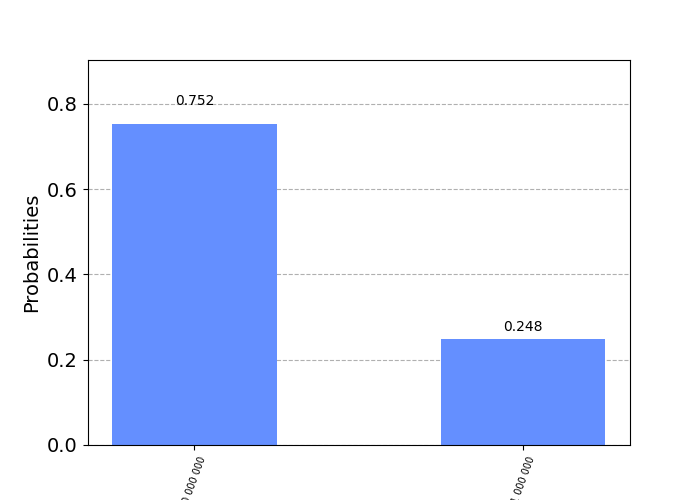
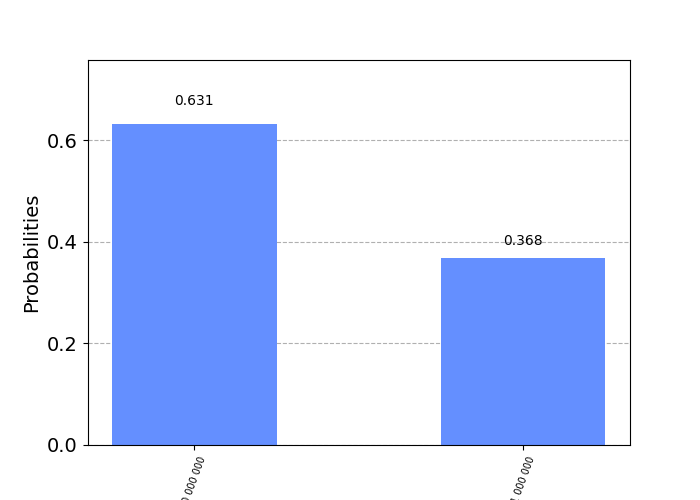
refactoring

diff --git a/Seven_qubit_code.py b/Seven_qubit_code.py
@@ -84,10 +84,10 @@ def append_stabilizers_logic(quantum_circuit):
 
 
 def perform_some_computations(all_qubits, quantum_circuit):
-    quantum_error_1 = QuantumCircuit(7, name='error')
-    ident3 = qi.Operator(np.identity(2 ** 7))
-    quantum_error_1.unitary(ident3, all_qubits, label='error')
-    quantum_circuit.append(quantum_error_1, all_qubits)
+    identity_operator = qi.Operator(np.identity(2 ** 7))
+    identity_gate = QuantumCircuit(7, name='error')
+    identity_gate.unitary(identity_operator, all_qubits, label='error')
+    quantum_circuit.append(identity_gate, all_qubits)
     quantum_circuit.barrier()
 
 
@@ -156,9 +156,9 @@ def append_stabilizers(quantum_circuit):
 
 
 def initialize_first_qubit_to_state(qc_3qx):
-    initial_state = [1 / np.sqrt(2), 1 / np.sqrt(2)]
-    # initial_state = [0,1]
-    # qc_3qx.initialize(initial_state, 0)
+    # initial_state = [1 / np.sqrt(2), 1 / np.sqrt(2)]
+    initial_state = [1,0]
+    qc_3qx.initialize(initial_state, 0)
     # # Initialize the 0th qubit in the state `initial_state`
 
 
